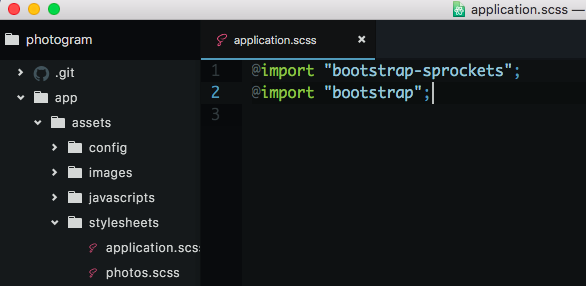
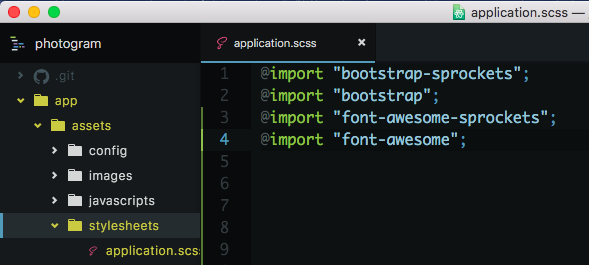
Update tutorial

diff --git a/_pages/guide-extended.html b/_pages/guide-extended.html
@@ -293,7 +293,7 @@ permalink: /guide-extended/
 
     {% highlight erb %}
       def index
-        @photos = Photo.all
+        @photos = Photo.order(created_at: :desc)
       end
     {% endhighlight %}
 
@@ -365,6 +365,7 @@ permalink: /guide-extended/
 
     {% highlight erb %}
     gem 'bootstrap-sass', '~> 3.3.6'
+    gem 'font-awesome-sass', '~> 4.6.2'
     {% endhighlight %}
 
     <p>Remember, you have to run:</p>
@@ -382,6 +383,8 @@ permalink: /guide-extended/
     {% highlight erb %}
     @import "bootstrap-sprockets";
     @import "bootstrap";
+    @import "font-awesome-sprockets";
+    @import "font-awesome";
     {% endhighlight %}
 
     <p style="font-weight: bold;">Checkpoint:</p>
@@ -533,22 +536,30 @@ permalink: /guide-extended/
 
     {% highlight erb %}
     <% if @photos.any? %>
-      <div class="photos-wrapper row">
-        <% @photos.each do |photo| %>
-          <div class="photo">
-            <div class="photo-head">
-              <h4 class="name">
-                RG Kuching
-              </h4>
+      <div class="row">
+        <% @photos.in_groups_of(3) do |group| %>
+          <% group.compact.each do |photo| %>
+          <div class="col-md-4">
+            <div class="photo">
+              <div class="photo-head">
+                <h4 class="name">
+                  <%= photo.user.email %>
+                </h4>
+              </div>
+              <div class="image center-block">
+                <%= link_to photo_path(photo) do %>
+                  <%= image_tag(photo.file_url, class: "img-responsive") if photo.file.present? %>
+                <% end %>
+              </div>
+              <p class="caption">
+                <%= photo.caption %>
+                <%= link_to photo_path(photo), method: :delete, data: { confirm: "Are you sure you want to delete this photo?" }, class: "btn btn-danger btn-xs pull-right" do %>
+                  <i class="i fa fa-trash"></i>
+                <% end %>
+              </p>
             </div>
-            <div class="image center-block">
-              <%= image_tag(photo.file_url, class: "img-responsive") if photo.file.present? %>
-            </div>
-            <p class="caption">
-              <%= photo.caption %>
-              <%= link_to "Delete", photo_path(photo), method: :delete, data: { confirm: "Are you sure you want to delete this photo?" }, class: "btn btn-danger btn-xs" %>
-            </p>
           </div>
+          <% end %>
         <% end  %>
       </div>
     <% else  %>
@@ -592,7 +603,17 @@ permalink: /guide-extended/
 
     <img src="../images/tutorials/instaclone-new.png" alt="" class="img-responsive">
 
-    <p></p>
+    <p>Lastly, open <code>app/views/photos/show.html.erb</code> and replace all of its content to:</p>
+
+    {% highlight erb %}
+    <div class="row">
+      <div class="col-md-12 col-md-offset-0v text-center">
+        <%= image_tag(@photo.file_url) if @photo.file.present? %>
+        <h3><%= @photo.caption %></h1>
+        <h4><%= @photo.user ? @photo.user.email : "RG Kuching" %></h4>
+      </div>
+    </div>
+    {% endhighlight %}
 
     <h2 id="refine-the-navigation"><em>9.</em>Refine The Navigation</h2>
 

diff --git a/index.html b/index.html
@@ -12,7 +12,6 @@ layout: default
       <li><a href="/guide-scaffold">Your First Rails App (Scaffold)</a></li>
       <li><a href="/guide-extended">Your First Rails App (Extended)</a></li>
       <li><a href="/guide-devise">Add User Authentication With Devise</a></li>
-      <li><a href="">Add Comments To Your App</a></li>
       <li><a href="/credits">Credits</a></li>
     </ul>
   </div>

diff --git a/_pages/guide-devise.html b/_pages/guide-devise.html
@@ -184,7 +184,7 @@ permalink: /guide-devise/
 
     {% highlight erb %}
     <h4 class="name">
-      <%= photo.user.email %>
+      <%= photo.user ? photo.user.email : "RG Kuching" %>
     </h4>
     {% endhighlight %}
 
